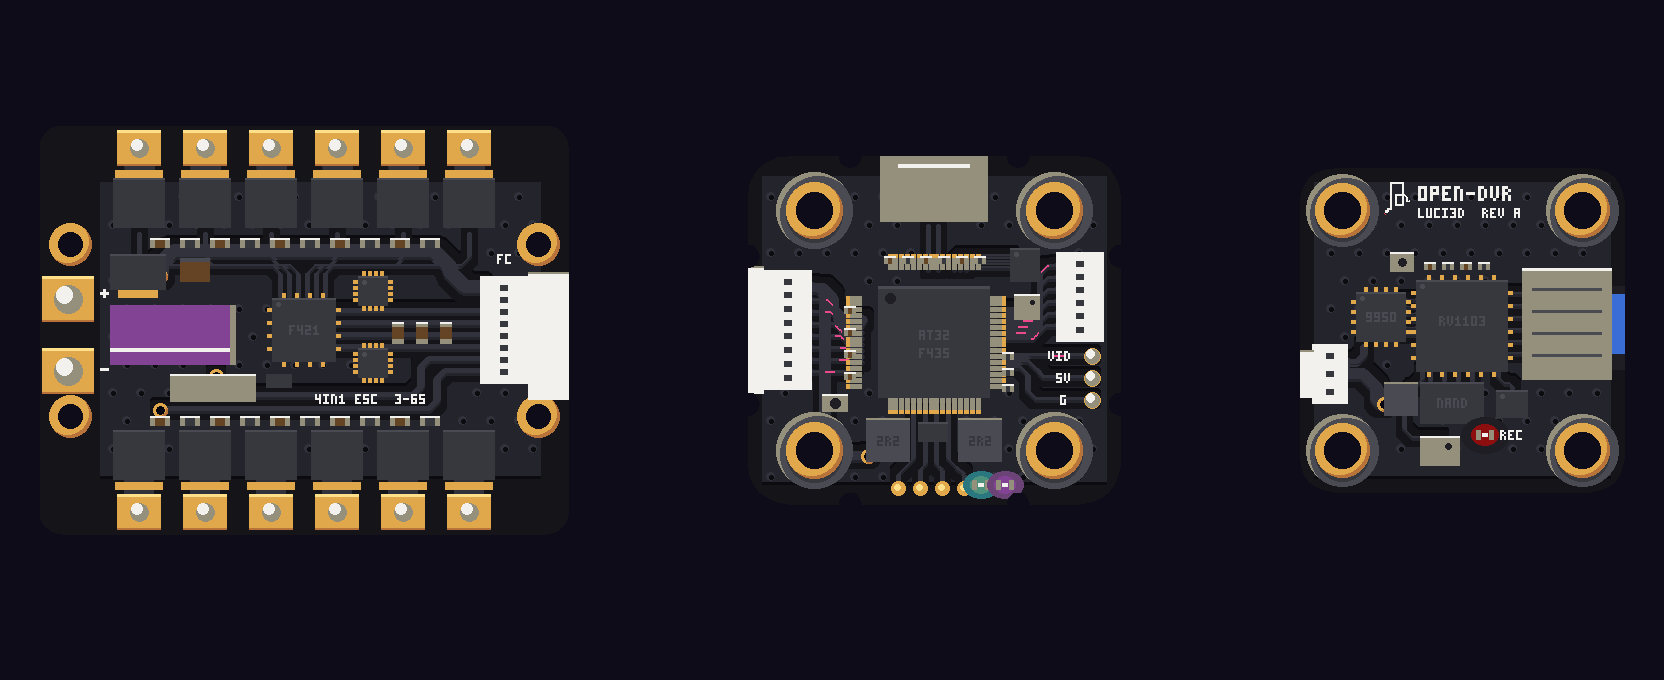
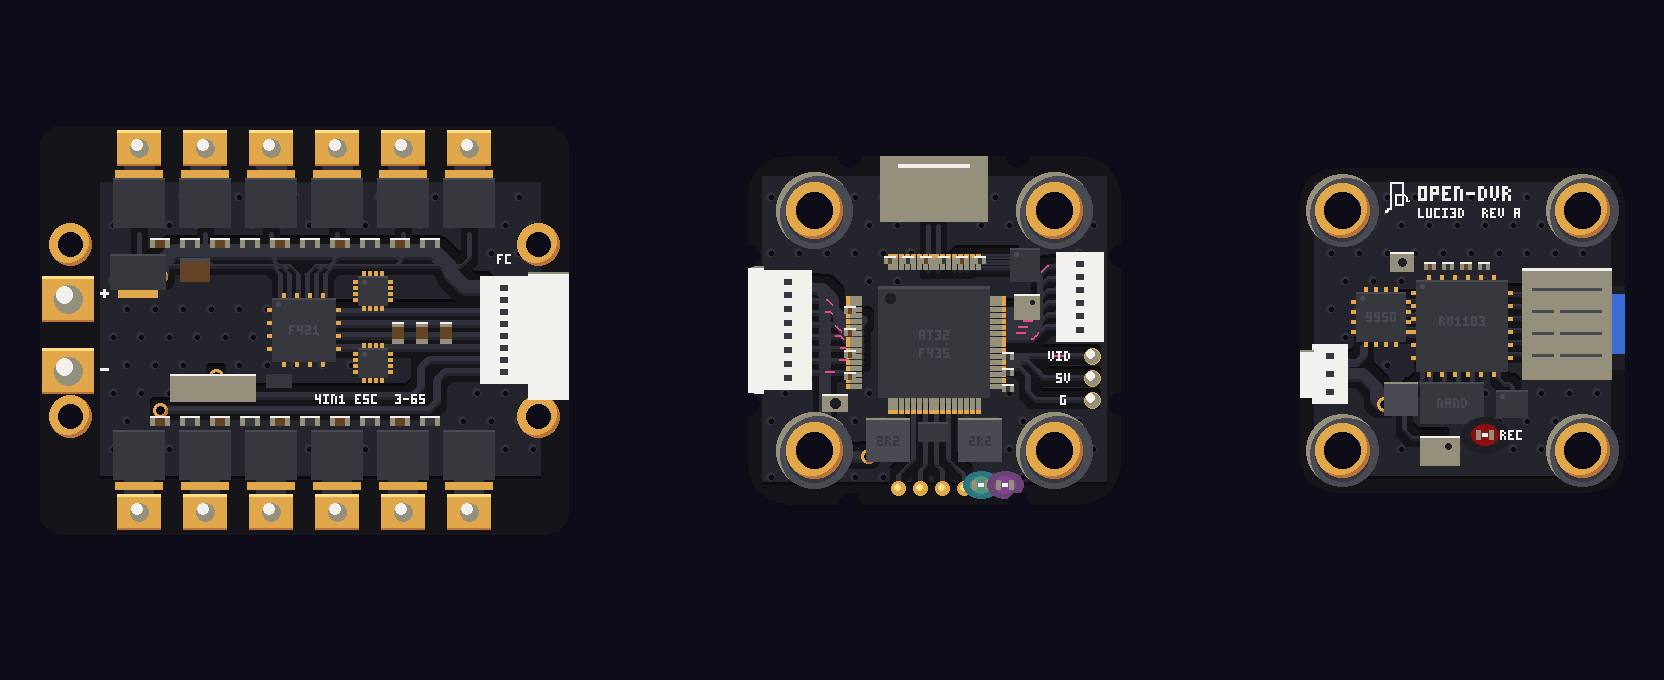
Stacks: the battery caps ride on the leads, off the board
- citykit: radial_cap() takes a height (z) and a draw-order bias, so a cap
  can sit on top of the battery leads; its legs bend down onto the pads and
  it casts a shadow on the frame below. Wires take a key_bias too
- Clean Stack: leads run side by side off the ESC, the cap lies on them
  with two zip ties; the camera reframed to include it
- Beaten Stack: leads gather under the cap off the ESC's east edge

Claude-Session: https://claude.ai/code/session_01UmY5gnHVZKbKAZ5r4hJAVp

Changed region(s): [[0.0625, 0.4324, 0.1562, 0.5559]]

diff --git a/art/world/make_stack.py b/art/world/make_stack.py
@@ -31,7 +31,7 @@ import palette  # noqa: E402
 from font3x5 import text_pixels, text_width  # noqa: E402
 
 sys.path.insert(0, str(Path(__file__).resolve().parent))
-from citykit import draw_radial, radial_shadow  # noqa: E402
+from citykit import draw_radial, radial_shadow, spline  # noqa: E402
 
 P = palette.load()
 for _k in list(P):
@@ -197,8 +197,8 @@ def box(x, y, w, d, height, top, side, hi=None, hi_h=2, z0=0.0, flat=False, wind
     return z0 + height * HS
 
 
-def wire3d(pts, w, c):
-    OBJS.append(dict(kind="wire", pts=pts, w=w, c=c))
+def wire3d(pts, w, c, kb=0):
+    OBJS.append(dict(kind="wire", pts=pts, w=w, c=c, kb=kb))
 
 
 def smoke(x, y, z=6.0, n=6):
@@ -579,14 +579,15 @@ chip0603(*E(160, 560))
 
 # the water tower: big electrolytic lying across the battery pads
 # (a radial cap: lies along x, both legs out of its east end, bent onto the + and - pads)
-CX0, CX1, CCY, CR = *E(424, 0)[:1], E(560, 0)[0], E(0, 288)[1], 32
-blob((CX0 + CX1) / 2 + 10, CCY + 12, 80, None, ry=40)
-OBJS.append(dict(kind="radial", x0=CX0, x1=CX1, cy=CCY, r=CR, legs="e"))
+EDGE = EX + ES                                     # it rides on the battery leads, off the board's east edge
+CX0, CX1, CCY, CR, CZ = EDGE + 34, EDGE + 160, E(0, 288)[1], 28, 22
+OBJS.append(dict(kind="radial", x0=CX0, x1=CX1, cy=CCY, r=CR, legs="w", z=CZ, key_bias=100))
 PLAN_EXTRAS = [(CX0, CCY - CR, CX1 - CX0, 2 * CR, GRAFFITI_PURPLE), (CX0, CCY + CR * 0.45, CX1 - CX0, 4, SILKSCREEN_WHITE),
-               (CX0, CCY - CR, 6, 2 * CR, SILKSCREEN_SHADE)]           # the cap in the flat plan only
+               (CX1 - 6, CCY - CR, 6, 2 * CR, SILKSCREEN_SHADE)]       # the cap in the flat plan only
 for (pxy, off) in zip((E(608, 241), E(608, 335)), (-0.35, 0.35)):
-    wire3d([(CX1, CCY + off * CR, CR), (CX1 + 10, CCY + off * CR, CR - 4), (CX1 + 16, CCY + off * CR * 1.6, 12),
-            (pxy[0], pxy[1], 5)], 4, SILKSCREEN_SHADE)
+    yo, zc = CCY + off * CR, CZ + CR
+    wire3d([(CX0, yo, zc), (CX0 - 8, yo, zc - 3), ((CX0 - 8 + pxy[0]) / 2, (yo + pxy[1]) / 2, (zc + 5) / 2 + 3),
+            (pxy[0], pxy[1], 5)], 4, SILKSCREEN_SHADE, kb=101)
 
 for (py_, c, lab_) in [(206, LOGO_RED, "+"), (300, IC_DARK, "-")]:  # battery pads + leads
     px_, pyy = E(590, py_)
@@ -595,13 +596,10 @@ for (py_, c, lab_) in [(206, LOGO_RED, "+"), (300, IC_DARK, "-")]:  # battery pa
     solder_blob(px_ + 18, pyy + 35, 16)
     text(lab_, px_ - 22, pyy + 26, SILKSCREEN_WHITE, 4)
     yy = pyy + 35
-    lead = []
-    for k in range(13):
-        t = k / 12
-        x_ = px_ + 18 + t * 300
-        z_ = 10 if x_ < EX + ES + 6 else max(FLOOR + 8, 10 - ((x_ - EX - ES - 6) / 90) ** 2 * 160)
-        lead.append((x_, yy + t * 40, z_))
-    wire3d(lead, 24, c)
+    off = -14 if c == LOGO_RED else 14                 # the two leads come together under the cap
+    wire3d(spline([(px_ + 18, yy, 10), (EDGE + 8, yy, 10), (EDGE + 40, CCY + off, 10), (EDGE + 180, CCY + off, 10),
+                   (EDGE + 225, CCY + off + 20, -60), (EDGE + 255, CCY + off + 50, FLOOR + 8),
+                   (EDGE + 520, CCY + off + 120, FLOOR + 8)]), 24, c)
 
 for gi, (gx0, top, num) in enumerate([(130, True, "4"), (380, True, "2"), (130, False, "3"), (380, False, "1")]):
     for k in range(3):  # motor pads, wires leaving the city
@@ -806,6 +804,10 @@ for o in OBJS:
         sp = [proj(x + LIGHT[0] * (z - FLOOR), y + LIGHT[1] * (z - FLOOR), FLOOR) for x, y, z in o["pts"]]
         fl_lines.append((sp, o["w"] * FOC / depth(*o["pts"][0][:2], FLOOR)))
 shade_screen(screen_mask(fl_polys[:2]), 2)
+shade_screen(screen_mask([[proj(x + LIGHT[0] * (o["z"] + o["r"] - FLOOR), y + LIGHT[1] * (o["z"] + o["r"] - FLOOR), FLOOR)
+                           for x, y in ((o["x0"], o["cy"] - o["r"]), (o["x1"], o["cy"] - o["r"]),
+                                        (o["x1"], o["cy"] + o["r"]), (o["x0"], o["cy"] + o["r"]))]
+                          for o in OBJS if o["kind"] == "radial"]))                   # the cap's shadow
 shade_screen(screen_mask((), fl_lines), 1)
 
 
@@ -844,11 +846,11 @@ for o in OBJS:
     for p0, p1 in zip(o["pts"], o["pts"][1:]):
         b = behind_boards(p0, p1)
         if cur_behind is not None and b != cur_behind:
-            runs.append((cur, o["w"], o["c"], cur_behind))
+            runs.append((cur, o["w"], o["c"], cur_behind, o.get("kb", 0)))
             cur = [p0]
         cur.append(p1)
         cur_behind = b
-    runs.append((cur, o["w"], o["c"], bool(cur_behind)))
+    runs.append((cur, o["w"], o["c"], bool(cur_behind), o.get("kb", 0)))
 for r in sorted([r for r in runs if r[3]], key=lambda r: -depth(*r[0][0])):
     draw_wire_run(*r[:3])
 
@@ -985,13 +987,13 @@ for o in OBJS:
     if o["kind"] == "hcyl":
         items.append((o["y1"], 0, lambda o=o: draw_hcyl(o)))
     if o["kind"] == "radial":
-        items.append((o["cy"] + o["r"], 0, lambda o=o: draw_radial(o, proj, poly,
+        items.append((o["cy"] + o["r"] + o.get("key_bias", 0), 0, lambda o=o: draw_radial(o, proj, poly,
                                                                      lambda pts, c, w: dr.line(pts, fill=c, width=w), CAM)))
     if o["kind"] == "tri":
         items.append((max(p[1] for p in o["pts"]), 0,
                       lambda o=o: poly([proj(*p) for p in o["pts"]], o["c"])))
 for r in [r for r in runs if not r[3]]:
-    items.append((max(p[1] for p in r[0]), 1, lambda r=r: draw_wire_run(*r[:3])))
+    items.append((max(p[1] for p in r[0]) + r[4], 1, lambda r=r: draw_wire_run(*r[:3])))
 for _, _, fn in sorted(items, key=lambda t: (t[0], t[1])):
     fn()
 

diff --git a/art/world/citykit.py b/art/world/citykit.py
@@ -101,7 +101,7 @@ def draw_radial(o, proj, poly, line, cam, ladder=None):
     """A radial electrolytic lying on its side along x, both legs out of one end (the FPV way).
     o: x0, x1, cy, r, legs ('w' or 'e'). Draws the visible sleeve facets and the visible end."""
     x0, x1, cy, r = o["x0"], o["x1"], o["cy"], o["r"]
-    zc = r
+    zc = o.get("z", 0) + r
     ladder = ladder or [SMOKE_VIOLET, GRAFFITI_PURPLE, DUSK_PURPLE, IC_DARK]
     vent_x, bung_x = (x1, x0) if o["legs"] == "w" else (x0, x1)
     ring = [2 * math.pi * k / 20 for k in range(20)]
@@ -308,23 +308,27 @@ class City:
                               flat=flat, windows=windows or []))
         return z0 + height * self.HS
 
-    def wire(self, pts, w, c):
-        self.objs.append(dict(kind="wire", pts=pts, w=w, c=c))
+    def wire(self, pts, w, c, key_bias=0):
+        """key_bias pushes the wire later in the drawing order (e.g. legs over a cap that sits on other wires)."""
+        self.objs.append(dict(kind="wire", pts=pts, w=w, c=c, kb=key_bias))
 
     def hcyl(self, cx, y0, y1, r, stripe=True):
         self.objs.append(dict(kind="hcyl", cx=cx, y0=y0, y1=y1, r=r, stripe=stripe))
 
-    def radial_cap(self, x0, x1, cy, r, legs, pads):
-        """A radial electrolytic lying along x on the board, legs out of the `legs` end ('w'/'e'),
-        bent down onto pads [(x, y), (x, y)] (plus first, minus second)."""
-        self.objs.append(dict(kind="radial", x0=x0, x1=x1, cy=cy, r=r, legs=legs))
+    def radial_cap(self, x0, x1, cy, r, legs, pads, z=0.0, key_bias=0):
+        """A radial electrolytic lying along x, legs out of the `legs` end ('w'/'e'), bent down onto
+        pads [(x, y), (x, y)] (plus first, minus second). z lifts it, e.g. onto the battery leads;
+        key_bias draws it after the wires it rests on."""
+        self.objs.append(dict(kind="radial", x0=x0, x1=x1, cy=cy, r=r, legs=legs, z=z, key_bias=key_bias))
         self.plan_extras.append((x0, cy - r, x1 - x0, 2 * r, GRAFFITI_PURPLE))      # shown in the flat plan only
         self.plan_extras.append((x0, cy + r * 0.45, x1 - x0, 4, SILKSCREEN_WHITE))
         self.plan_extras.append((x1 - 6 if legs == "w" else x0, cy - r, 6, 2 * r, SILKSCREEN_SHADE))
         bx, s = (x0, -1) if legs == "w" else (x1, 1)
+        zc = z + r
         for (px, py), off in zip(pads, (-0.35, 0.35)):
-            self.wire([(bx, cy + off * r, r), (bx + s * 10, cy + off * r, r - 4), (bx + s * 16, cy + off * r * 1.6, 12),
-                       (px, py, 5)], 4, SILKSCREEN_SHADE)
+            yo = cy + off * r
+            self.wire([(bx, yo, zc), (bx + s * 8, yo, zc - 3), ((bx + s * 8 + px) / 2, (yo + py) / 2, (zc + 5) / 2 + 3),
+                       (px, py, 5)], 4, SILKSCREEN_SHADE, key_bias=key_bias + 1)
 
     def legs(self, xs, y, dy, n, wid=5):
         for x in xs:
@@ -512,6 +516,12 @@ class City:
                 sp = [proj(x + light[0] * (z - FLOOR), y + light[1] * (z - FLOOR), FLOOR) for x, y, z in o["pts"]]
                 lines.append((sp, o["w"] * focal / depth(*o["pts"][0][:2], FLOOR)))
         shade_screen(screen_mask(polys), 2)
+        lifted = [o for o in self.objs if o["kind"] == "radial" and o.get("z", 0) > 0]      # caps off the board
+        if lifted:
+            shade_screen(screen_mask([[proj(x + light[0] * (o["z"] + o["r"] - FLOOR), y + light[1] * (o["z"] + o["r"] - FLOOR),
+                                            FLOOR) for x, y in ((o["x0"], o["cy"] - o["r"]), (o["x1"], o["cy"] - o["r"]),
+                                                                (o["x1"], o["cy"] + o["r"]), (o["x0"], o["cy"] + o["r"]))]
+                                      for o in lifted]))
         shade_screen(screen_mask((), lines), 1)
 
         # --- wires: runs behind the boards first
@@ -554,11 +564,11 @@ class City:
             for p0, p1 in zip(o["pts"], o["pts"][1:]):
                 b = behind(p0, p1)
                 if state is not None and b != state:
-                    runs.append((cur, o["w"], o["c"], state))
+                    runs.append((cur, o["w"], o["c"], state, o.get("kb", 0)))
                     cur = [p0]
                 cur.append(p1)
                 state = b
-            runs.append((cur, o["w"], o["c"], bool(state)))
+            runs.append((cur, o["w"], o["c"], bool(state), o.get("kb", 0)))
         for r in sorted([r for r in runs if r[3]], key=lambda r: -depth(*r[0][0])):
             draw_run(*r[:3])
 
@@ -672,9 +682,9 @@ class City:
         shade_screen(screen_mask([footprint_shadow(o) for o in ground] + cyl_sh) & board_screen)
         items = [(o["y"] + o["d"], 0, lambda o=o: draw_box(o)) for o in ground]
         items += [(o["y1"], 0, lambda o=o: draw_hcyl(o)) for o in self.objs if o["kind"] == "hcyl"]
-        items += [(o["cy"] + o["r"], 0, lambda o=o: draw_radial(o, proj, poly, lambda pts, c, w: dr.line(pts, fill=c, width=w), cam))
+        items += [(o["cy"] + o["r"] + o.get("key_bias", 0), 0, lambda o=o: draw_radial(o, proj, poly, lambda pts, c, w: dr.line(pts, fill=c, width=w), cam))
                   for o in self.objs if o["kind"] == "radial"]
-        items += [(max(p[1] for p in r[0]), 1, lambda r=r: draw_run(*r[:3])) for r in runs if not r[3]]
+        items += [(max(p[1] for p in r[0]) + r[4], 1, lambda r=r: draw_run(*r[:3])) for r in runs if not r[3]]
         for _, _, fn in sorted(items, key=lambda t: (t[0], t[1])):
             fn()
         if raised:

diff --git a/art/world/make_clean.py b/art/world/make_clean.py
@@ -151,13 +151,18 @@ for py, lab in [(150, "+"), (222, "-")]:
 c.text("+", *E(60, 160), SILKSCREEN_WHITE, 3)
 c.text("-", *E(60, 236), SILKSCREEN_WHITE, 3)
 c.text_c("4IN1 ESC  3-6S", *E(330, 268), SILKSCREEN_WHITE, 2)
-c.radial_cap(EX + 70, EX + 196, EY + 209, 30, "w", [E(30, 173), E(30, 245)])   # the cap, legs on its pads
 YB = EY + 209                                                      # the leads meet here
-for py, col, off in [(173, LOGO_RED, -13), (245, BLACKW, 13)]:      # battery leads, gathered and tied
+for py, col, off in [(173, LOGO_RED, -13), (245, BLACKW, 13)]:      # battery leads, side by side, off the board
     y0 = EY + py
-    c.wire(spline([(EX + 28, y0, 8), (EX - 14, y0, 8), (EX - 50, YB + off, 2), (EX - 90, YB + off + 30, -50),
-                   (EX - 120, YB + off + 120, c.FLOOR + 12), (EX - 150, H + 300, c.FLOOR + 12)]), 22, col)
-c.wire([(EX - 56, YB - 30, 4), (EX - 56, YB + 30, 4)], 9, SILKSCREEN_WHITE)                     # zip tie
+    c.wire(spline([(EX + 28, y0, 8), (EX - 14, y0, 8), (EX - 50, YB + off, 7), (EX - 165, YB + off, 7),
+                   (EX - 205, YB + off + 30, -50), (EX - 235, YB + off + 120, c.FLOOR + 12),
+                   (EX - 265, H + 300, c.FLOOR + 12)]), 22, col)
+CAP_R, CAP_Z = 26, 17                                               # the cap lies on top of the leads
+c.radial_cap(EX - 150, EX - 30, YB, CAP_R, "e", [E(30, 173), E(30, 245)], z=CAP_Z, key_bias=100)
+for zx in (EX - 72, EX - 128):                                     # zip ties around cap and leads
+    zc = CAP_Z + CAP_R
+    c.wire([(zx, YB - 27 * math.cos(math.pi * k / 10), 4 + (zc + CAP_R - 3) * math.sin(math.pi * k / 10))
+            for k in range(11)], 6, SILKSCREEN_WHITE, key_bias=103)
 # motor wires: three per motor, gathered into a sleeved bundle that runs off toward its arm
 for grp in range(2):
     for top in (True, False):
@@ -278,7 +283,8 @@ for k, (py, col) in enumerate([(200, BLACKW), (222, LOGO_RED), (244, BLACKW)]):
 out = Path(__file__).resolve().parent / "out"
 out.mkdir(exist_ok=True)
 c.plan_image().save(out / "clean-v1-plan.png")
-img = c.render(out_size=(1800, 760), target=(W / 2, H / 2 + 20, 0), pitch=62, dist=1500, focal=1500, screen_cy=0.44)
+img = c.render(out_size=(1800, 760), target=((EX - 160 + DX + DS) / 2, H / 2 + 20, 0), pitch=62, dist=1500, focal=1400,
+               screen_cy=0.44)   # framed from the cap on the leads to the DVR
 img.save(out / "clean-v1.png")
 # close-up of our board alone: rendered small, scaled up with hard pixels
 dvr = c.render(out_size=(560, 420), target=(DX + DS / 2 + 6, DY + DS / 2 + 14, 0), pitch=60, dist=900,
